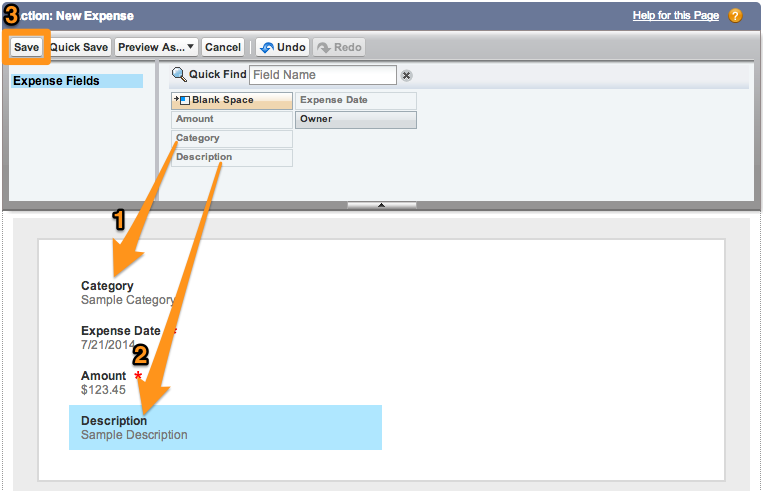
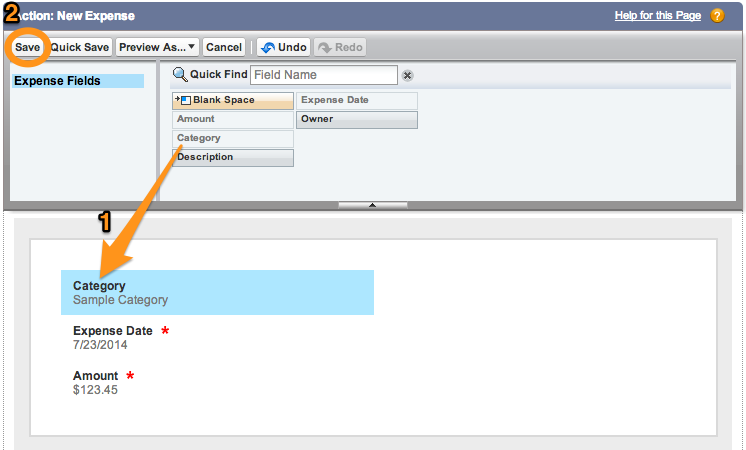
editing instructions

Changed region(s): [[0.0, 0.0, 1.0, 0.9956], [0.0617, 0.9644, 0.9558, 0.9956]]

diff --git a/_site/create-global-action.html b/_site/create-global-action.html
@@ -96,8 +96,7 @@ are not mentioned below):</p>
 <p><img src="images/global_action_layout.png" alt=""></p>
 
 <ol>
-<li><p>Only <strong>required fields</strong> are included in the global action page layout by default. Drag the <strong>Category</strong> field and position it as the first field in the global action page layout</p></li>
-<li><p>Drag the <strong>Description</strong> field and position it as the last field in the global action page layout</p></li>
+<li><p>Drag the <strong>Category</strong> field and position it as the first field in the global action page layout</p></li>
 <li><p>Click <strong>Save</strong></p></li>
 </ol>
 

diff --git a/create-global-action.md b/create-global-action.md
@@ -26,9 +26,7 @@ are not mentioned below):
 
 ![](images/global_action_layout.png)
 
-1. Only **required fields** are included in the global action page layout by default. Drag the **Category** field and position it as the first field in the global action page layout
-
-1. Drag the **Description** field and position it as the last field in the global action page layout
+1. Drag the **Category** field and position it as the first field in the global action page layout
 
 1. Click **Save**
 
